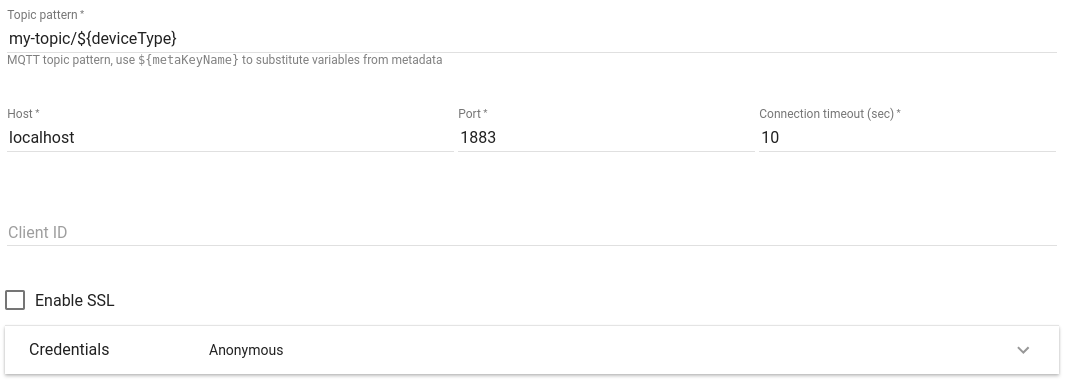
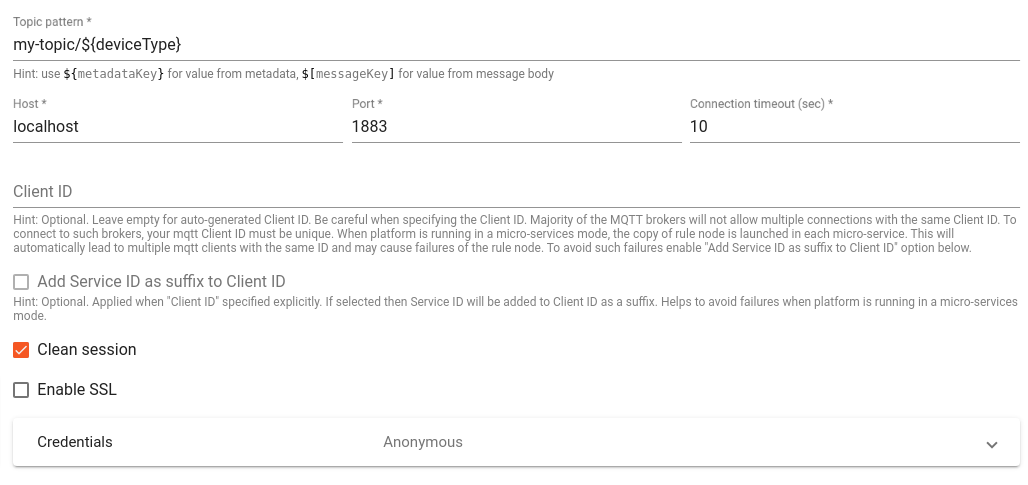
mqtt rule node doc updates

diff --git a/_includes/docs/user-guide/rule-engine-2-0/ce-external-nodes.md b/_includes/docs/user-guide/rule-engine-2-0/ce-external-nodes.md
@@ -192,6 +192,8 @@ Configuration:
 - **Port** - MQTT broker port.
 - **Connection timeout** - timeout in seconds for connecting to MQTT broker.
 - **Client ID** - optional client identifier used for connecting to MQTT broker. If not specified, default generated clientId will be used.
+- **Add Service ID as suffix to Client ID** - optional flag. Server id will be added as a suffix to the client id when enabled. It is helpful when running in microservices mode to allow rule nodes on each node to connect to the broker without the errors.
+- **Clean session** - establishes a non persistent connection with the broker when enabled.
 - **SSL Enable/Disable** - enable/disable secure communication.  
 - **Credentials** - MQTT connection credentials. Can be either *Anonymous*, *Basic* or *PEM*.
 
